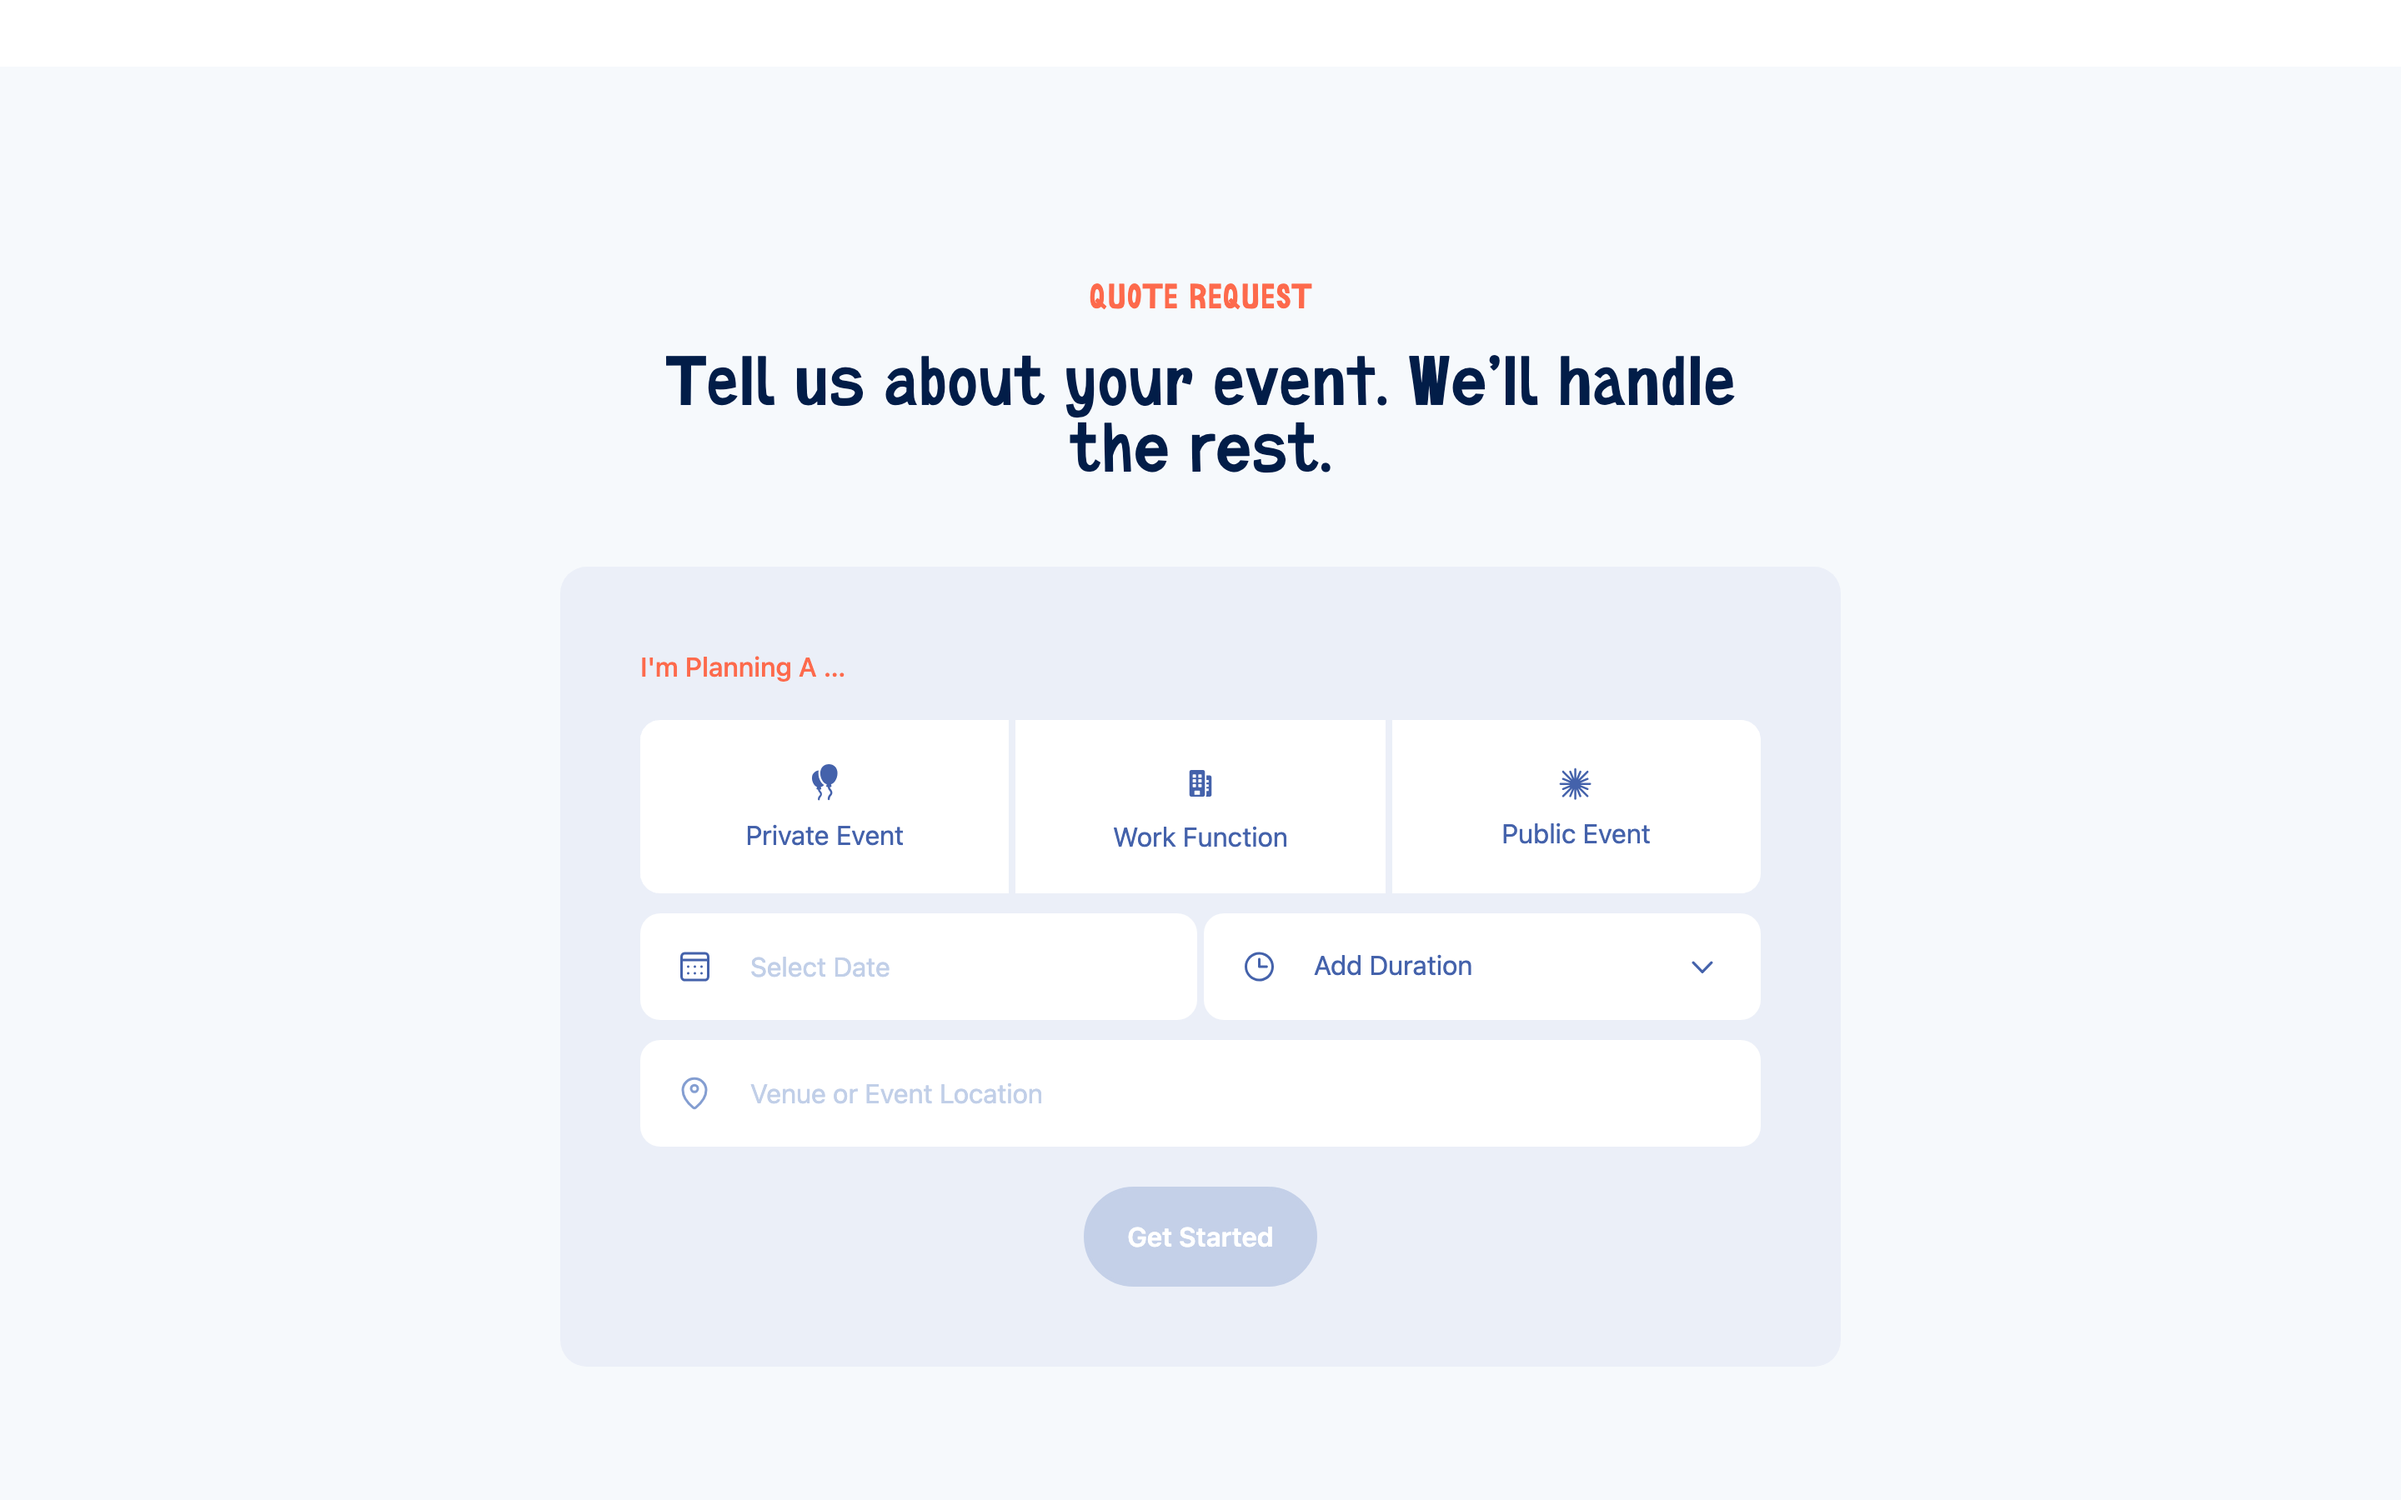
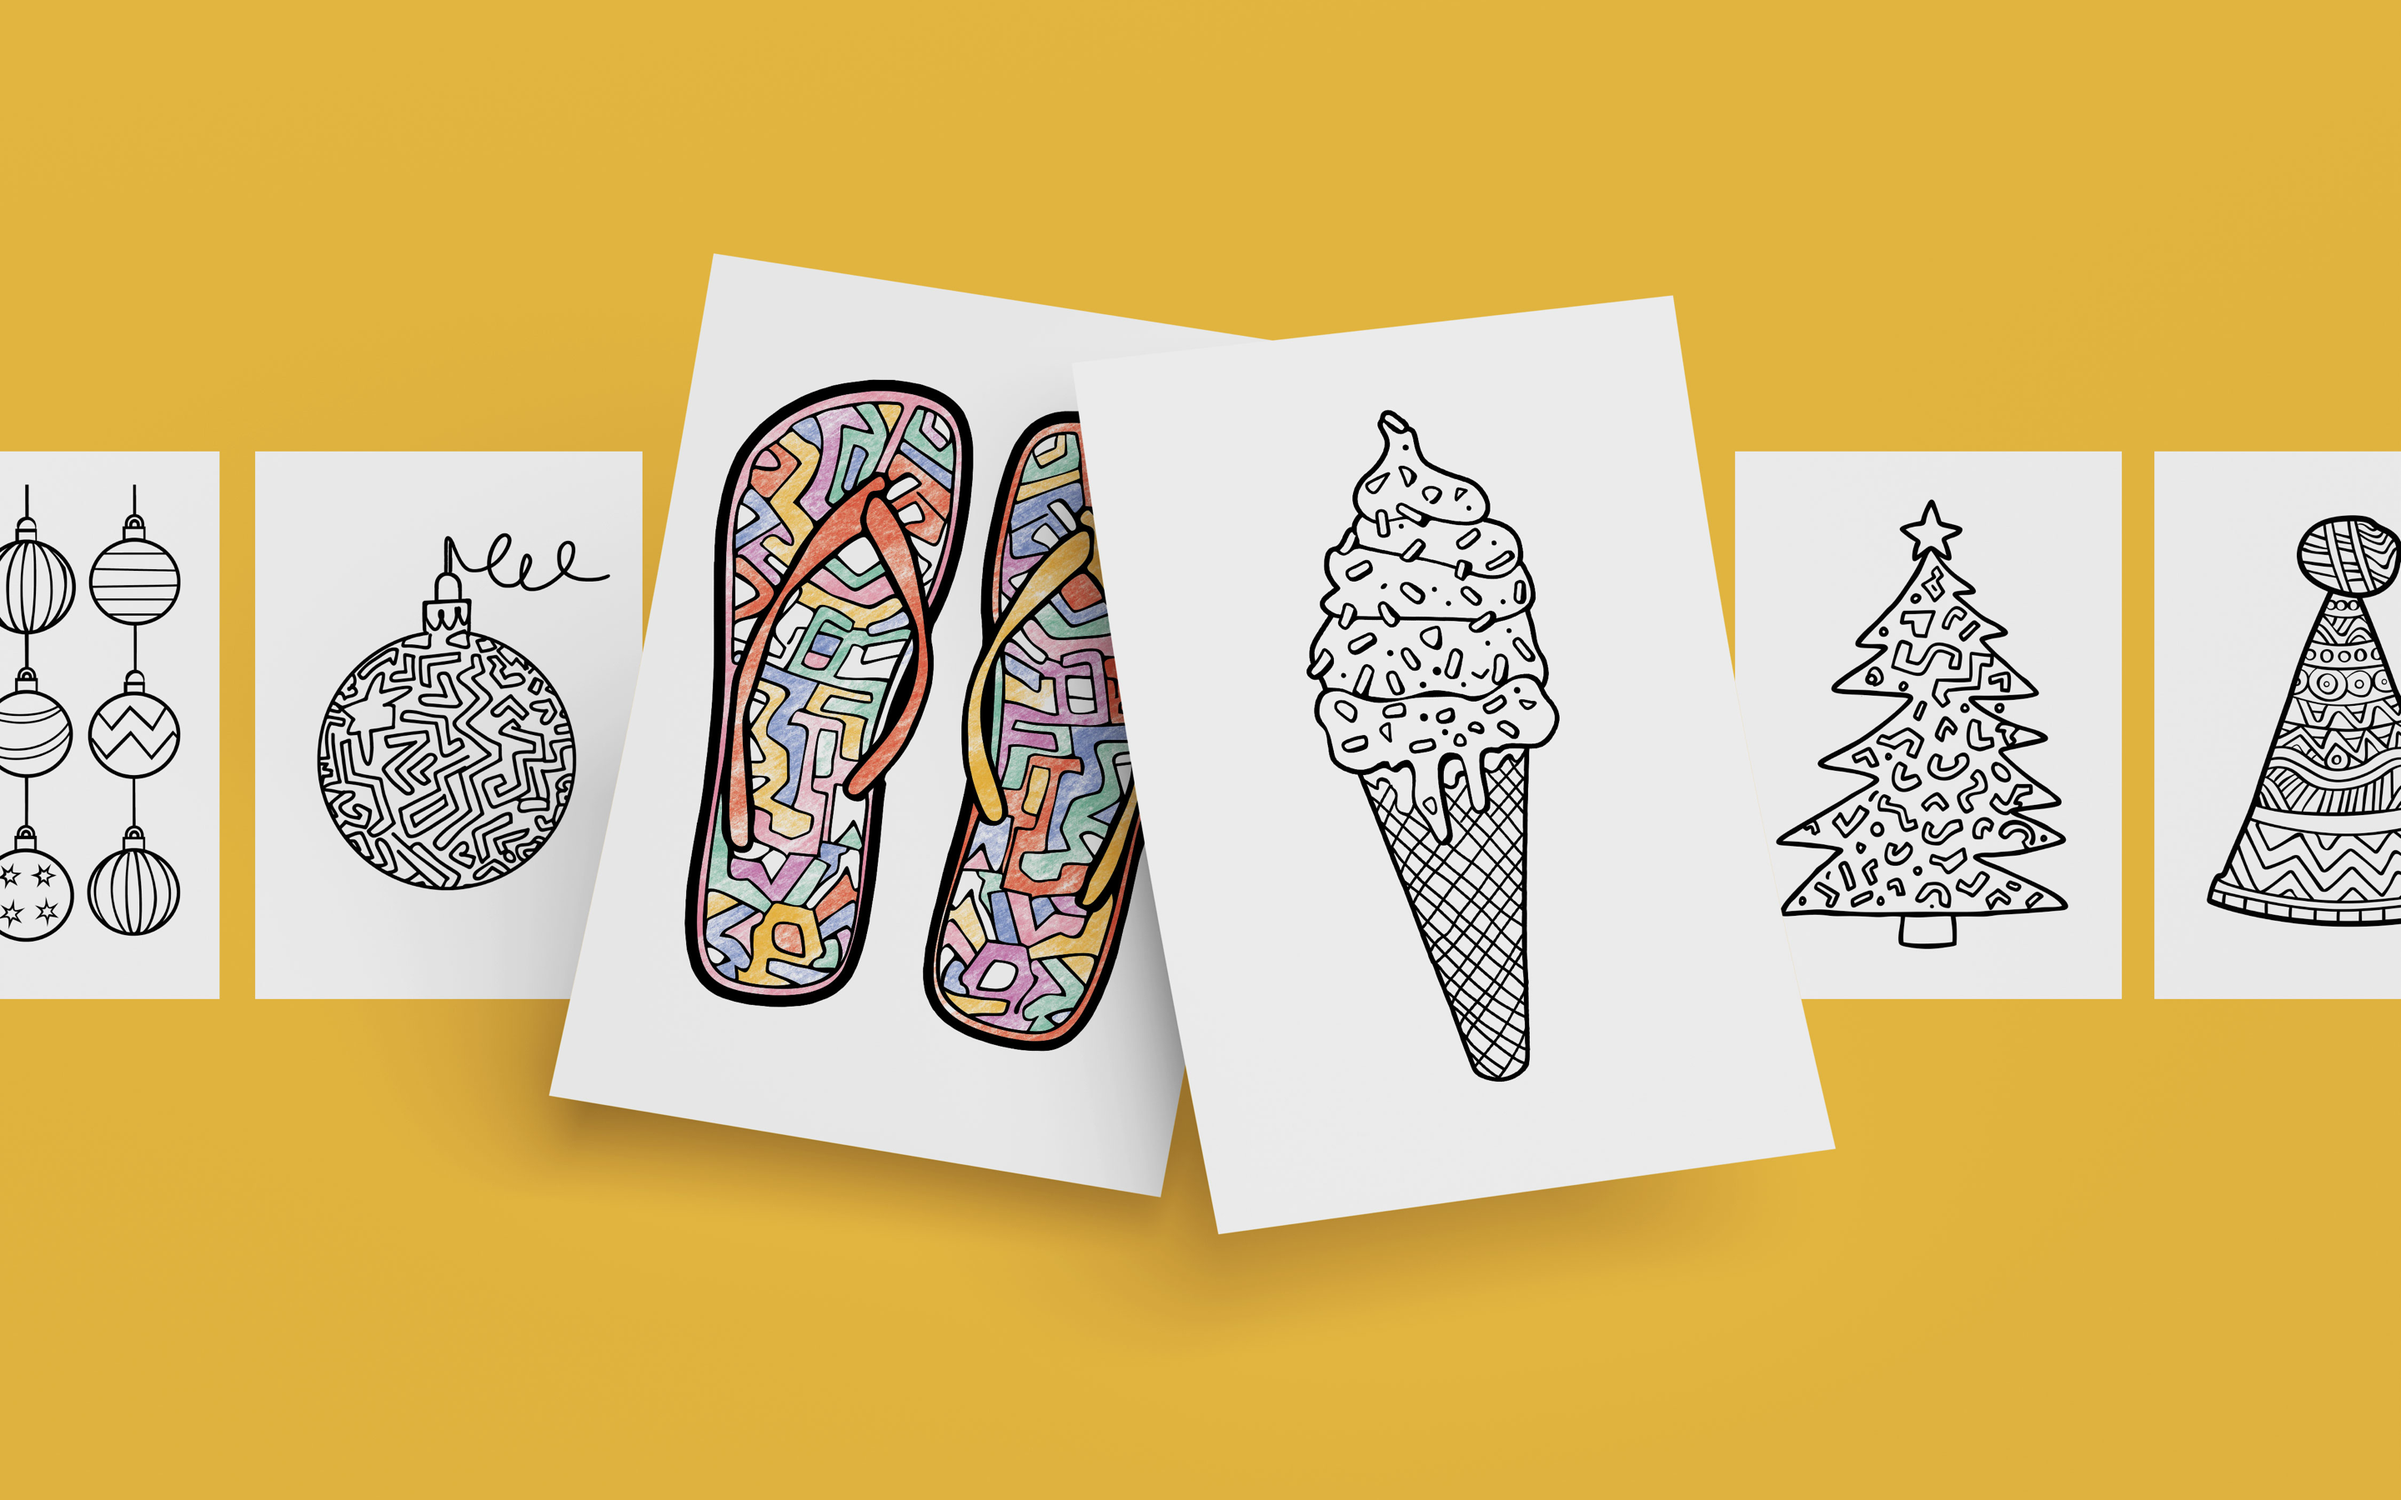
Device mock-ups for ProLog and Event Sitters
- ProLog: the laptop and phone mock-up opens the drawer (drawerImage, edge to edge,
  screenshots framed below) and replaces the side-by-side devices at the end of the case.
- Hover previews and thumbnails follow the drawer's image order.
- Event Sitters: the last gallery image is the colouring sheets mock-up, edge to edge
  with no phone over it.

diff --git a/src/data/projects.ts b/src/data/projects.ts
@@ -27,7 +27,8 @@ type BoardProps = ComponentProps<typeof CaseBoard>;
 //   the gallery, edge to edge. Its background is the --board token, so it follows dark mode,
 //   where a board saved as one image keeps its light background.
 // - drawerImage: a 16:10 image to open the drawer with instead of the preview (for portrait
-//   previews, which don't fit the frame). The hover keeps the preview.
+//   previews, which don't fit the frame, or a mock-up to lead with). The hover image and its
+//   thumbnails follow the drawer's order; the hero stack keeps the preview.
 // - galleryMobile: phone shots of the same sections, in the same order as [preview,
 //   ...gallery]. Shown in a phone frame over the desktop shot, switching in step.
 // - video: a slow scroll down the site (desktop), with the same scroll on a phone on top. Used
@@ -123,7 +124,19 @@ export const projects: Project[] = [
     href: "https://www.prolog.ag",
     caseStudy: "/cases/prolog",
     preview: "work/prolog-hero.png",
+    // The drawer opens on the laptop and phone mock-up, edge to edge; the site screenshots
+    // follow in their frames. The hover thumbnails follow; the hero stack keeps the preview.
+    drawerImage: "work/prolog-mockup.png",
+    galleryBleed: "all",
+    galleryFramed: [
+      "work/prolog-hero.png",
+      "work/prolog-section-1.png",
+      "work/prolog-section-2.png",
+      "work/prolog-section-3.png",
+      "work/prolog-section-4.png",
+    ],
     gallery: [
+      "work/prolog-hero.png",
       "work/prolog-section-1.png",
       "work/prolog-section-2.png",
       "work/prolog-section-3.png",
@@ -174,11 +187,13 @@ export const projects: Project[] = [
     href: "https://www.eventsitters.nz",
     preview: "work/eventsitters-hero.png",
     gallery: ["work/event-sitters-section-1.png", "work/event-sitters-section-2.png", "work/event-sitters-section-3.png"],
+    // The last image is a mock-up of the colouring sheets: edge to edge, with no phone over it.
+    galleryBleed: true,
+    galleryFramed: ["work/event-sitters-section-1.png", "work/event-sitters-section-2.png"],
     galleryMobile: [
       "work/event-sitters-mobile-1.png",
       "work/event-sitters-mobile-2.png",
       "work/event-sitters-mobile-3.png",
-      "work/event-sitters-mobile-4.png",
     ],
     summary: [
       "Event Sitters is a small company in Hawke's Bay, run by Samantha, that brings kids' entertainment to weddings, parties and events, on site.",
